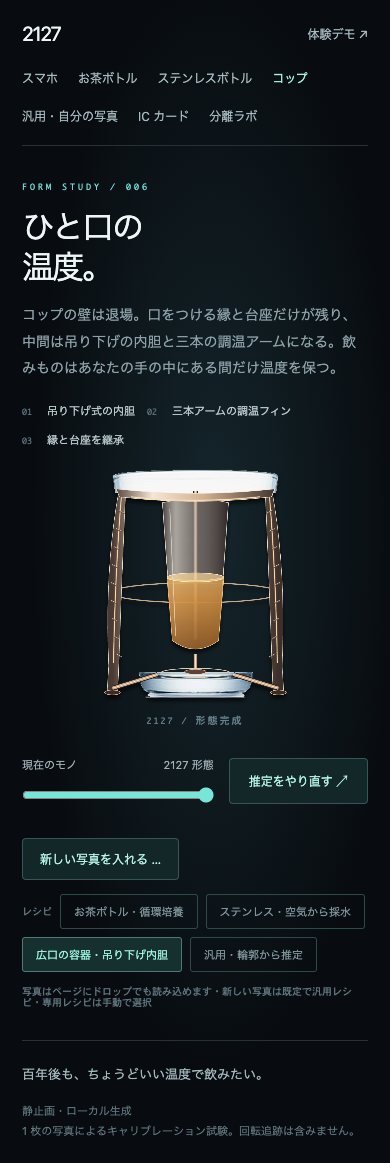
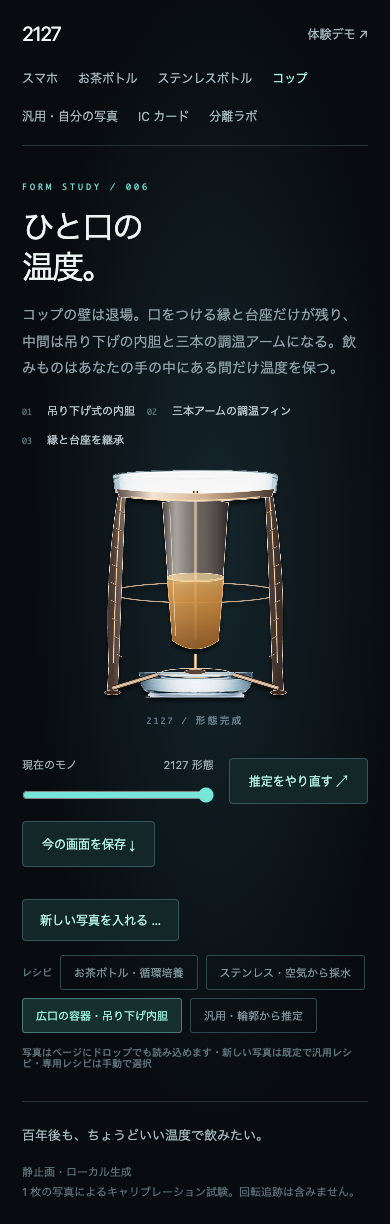
feat(input): bound photo analysis and export current views
- Resize large uploads before segmentation while retaining originals for repair.
- Export the current comparison as a transparent PNG across evolution pages.
- Verify large-photo processing and exact snapshot exports in browser regression checks.

diff --git a/studies.html b/studies.html
@@ -385,6 +385,7 @@ if(kind==='bottle-b'){const wrap=document.getElementById('elevwrap'),el=document
   slider.value=100;draw(1);
   phase.textContent=+el.value?`カメラ仰角 ${Math.round(e*180/Math.PI)}°（プロトタイプ・近似）`:'2127 / 形態完成';});}
 slider.addEventListener('input',()=>{cancelAnimationFrame(raf);raf=0;draw(+slider.value/100);phase.textContent=+slider.value===0?'現在のモノ':+slider.value===100?'2127 / 形態完成':'現在 ↔ 2127 形態';});replay.addEventListener('click',evolve);
+mountSnapshot(canvas,replay,()=>{cancelAnimationFrame(raf);raf=0;});
 function selfTest(){const rows=[],check=(n,ok)=>rows.push(`${ok?'PASS':'FAIL'} ${n}`),a=source.getContext('2d').getImageData(0,0,1456,970).data,b=future.getContext('2d').getImageData(0,0,1456,970).data;let count=0,removed=0,added=0;for(let i=3;i<a.length;i+=4){if(a[i]>200){count++;if(b[i]<30)removed++;}else if(a[i]<10&&b[i]>180)added++;}
  if(family==='bottle'){check('background actually removed, not merely plausible geometry',!!anchors&&!anchors.bothSides&&anchors.kept<.6);
   check('rejection names the failing condition and the recipe that fits',/左右の画面端/.test(bottleGate({bothSides:true,kept:.2,top:0,base:100,width:30},200,recipe))&&/広口の容器/.test(bottleGate({bothSides:false,kept:.2,top:0,base:100,width:90},200,'bottle'))&&bottleGate(anchors,photo.naturalHeight,recipe)===null);
@@ -457,14 +458,23 @@ function loadFile(file){
  if(!/^image\/(jpeg|png|webp)$/.test(file.type))return fail('JPEG / PNG / WebP のみ対応');
  if(file.size>20*1024*1024)return fail('ファイルが大きすぎます（上限 20MB）');
  const url=URL.createObjectURL(file),img=new Image();
- img.onload=()=>{
+ img.onload=async()=>{
   URL.revokeObjectURL(url);
   if(revision!==inputRevision)return;
   try {
   if(img.naturalWidth<200||img.naturalHeight<200)return fail('解像度が低すぎます（各辺 200px 以上）');
   if(img.naturalWidth*img.naturalHeight>40e6)return fail('画素数が多すぎます（上限 4000 万）');
-  photo=img;autoRecipe=true;
   const t=performance.now();
+  // 與 Lab 一樣限制分析尺寸；保留原 File 給失敗修正，避免高像素 flood-fill 佔滿記憶體。
+  let analysis=img;
+  if(Math.max(img.naturalWidth,img.naturalHeight)>1200){
+   const scale=1200/Math.max(img.naturalWidth,img.naturalHeight),work=document.createElement('canvas');
+   work.width=Math.round(img.naturalWidth*scale);work.height=Math.round(img.naturalHeight*scale);
+   work.getContext('2d').drawImage(img,0,0,work.width,work.height);
+   analysis=new Image();analysis.src=work.toDataURL('image/png');await analysis.decode();
+   if(revision!==inputRevision)return;
+  }
+  photo=analysis;autoRecipe=true;
   const why=build();
   if(why!==true){
    // A rejection here means segmentation failed, and the lab is where that gets fixed by hand.
@@ -475,9 +485,9 @@ function loadFile(file){
    hint.append(repair);
    return fail('対応範囲外 —— '+why);}
   document.getElementById('loadhint').textContent=
-   `読み込み ${img.naturalWidth}×${img.naturalHeight}・分離 ${Math.round(performance.now()-t)}ms`;
+   `読み込み ${img.naturalWidth}×${img.naturalHeight}・解析 ${analysis.naturalWidth}×${analysis.naturalHeight}・処理 ${Math.round(performance.now()-t)}ms${analysis!==img?'（長辺 1200px に縮小）':''}`;
   show();
-  }catch{fail('写真の処理に失敗しました。別の写真でもう一度お試しください');}
+  }catch{if(revision===inputRevision)fail('写真の処理に失敗しました。別の写真でもう一度お試しください');}
  };
  img.onerror=()=>{URL.revokeObjectURL(url);if(revision===inputRevision)fail('画像のデコードに失敗しました');};
  img.src=url;

diff --git a/segmentation.js b/segmentation.js
@@ -81,3 +81,26 @@ function maskProfile(canvas,long='y',n=40){
    out[i][key]=sum/wt;}}
  return out;
 }
+
+// 保存目前比較位置；兩個形態頁共用，Lab 移動控制列時一併帶入。
+function mountSnapshot(canvas,replay,pause){
+ const button=document.createElement('button');button.id='save-view';button.textContent='今の画面を保存 ↓';
+ const note=document.createElement('span');note.id='save-status';note.setAttribute('role','status');note.style.cssText='font-size:12px;line-height:1.6;color:#b9c9cd';
+ replay.parentElement.style.flexWrap='wrap';replay.after(button,note);
+ let saving=false;
+ const sync=()=>{button.disabled=saving||replay.disabled;};
+ new MutationObserver(sync).observe(replay,{attributes:true,attributeFilter:['disabled']});sync();
+ button.onclick=async()=>{
+  if(button.disabled)return;
+  pause();saving=true;sync();note.textContent='PNG を準備中…';
+  try{
+   // toBlob captures pixels at invocation, before another upload or slider event can change them.
+   const blob=await new Promise(resolve=>canvas.toBlob(resolve,'image/png'));
+   if(!blob)throw Error('empty export');
+   const url=URL.createObjectURL(blob),a=document.createElement('a');
+   a.download='2127-view.png';a.href=url;a.click();setTimeout(()=>URL.revokeObjectURL(url),10000);
+   note.textContent='透過 PNG を保存しました · '+canvas.width+' × '+canvas.height;
+  }catch{note.textContent='保存できませんでした。もう一度お試しください。';}
+  finally{saving=false;sync();}
+ };
+}

diff --git a/phone.html b/phone.html
@@ -93,6 +93,7 @@ function evolve(){cancelAnimationFrame(raf);slider.value=100;started=performance
 }
 slider.addEventListener('input',()=>{cancelAnimationFrame(raf);raf=0;draw(slider.value/100);phase.textContent=+slider.value===0?'現在のスマホ':+slider.value===100?'2127 / 形態完成':'現在 ↔ 2127 形態';});
 replay.addEventListener('click',evolve);
+mountSnapshot(canvas,replay,()=>{cancelAnimationFrame(raf);raf=0;});
 function selfTest(){
  const rows=[],check=(name,ok)=>{rows.push(`${ok?'PASS':'FAIL'} ${name}`);};
  check('four projective corners match the photo',[[0,0],[1,0],[1,1],[0,1]].every(([u,v],i)=>Math.hypot(...at(u,v).map((n,j)=>n-corners[i][j]))<1e-6));

diff --git a/memory-bank/20-status.md b/memory-bank/20-status.md
@@ -2,6 +2,19 @@
 
 最後更新：2026-09-08
 
+## 演化畫面匯出
+
+- 手機、studies 及 Lab 的演化控制列加入「今の画面を保存」。共用 `mountSnapshot()`，保存目前比較位置的 1456×970 透明 PNG，包含自訂相片／修正遮罩結果。
+- 保存先停止動畫，Canvas 在 toBlob 呼叫當下取樣；後續拖滑桿或換相不會改變正在匯出的內容。載入／失敗時跟隨 replay 停用，匯出失敗可重試。
+- 匯出不包含頁面文字或 CSS 背景；完整世代卡仍在 demo 展示入口。
+
+## 大相片分析上限
+
+- 一般上傳頁原本直接對最多 4000 萬像素跑同步 flood-fill；現對超過長邊 1200px 的輸入先等比縮小，再交給既有去背及配方切換。
+- 原 File 保留給失敗轉入 Lab；解析資訊列同時顯示原尺寸、分析尺寸及處理耗時。小相片及既有初始示範不重採樣。
+- 縮圖解碼後再次檢查 request revision，舊請求的成功／失敗皆不能覆蓋新輸入。
+- 取捨：細小孔隙可能在縮圖時消失；仍屬 2.5D 原型，未引入 worker，原始圖片解碼的記憶體開銷仍存在。
+
 ## 去背失敗直接修正
 
 - 一般相片去背守門失敗後，「この写真を分離ラボで修正」在同一頁啟動 Lab，直接傳入原 File，不用重選、不存本地資料庫或上傳。

diff --git a/tests/README.md b/tests/README.md
@@ -28,3 +28,5 @@ PLAYWRIGHT_MODULE=/Users/fatboy/.cache/codex-runtimes/codex-primary-runtime/depe
 Coverage includes the generic fallback on three out-of-class photos, the wrong-recipe rejection on the cup study, opt-in enclosed-region cleanup, reversible reset, PNG download/alpha round-trip, invalid inputs, rapid sample switching, unsupported-mask recovery, both prepared-mask bottle recipes, calibrated phone/card uploads, local card corner proposals, curved-outline rejection, baseline restoration and 390px layout. Calibration uses translated/padded fixture photos, not new physical objects. Quantitative geometry checks do not establish arbitrary-photo recognition, artistic quality or exhibition reliability.
 
 展示入口亦覆蓋三物件切換、前後比較、PNG 世代卡下載、完整單輪導覽及 390px 版面。
+
+大相片回歸：3720×1932 輸入縮至 1200×623 分析，演化及重新選配方可用。
